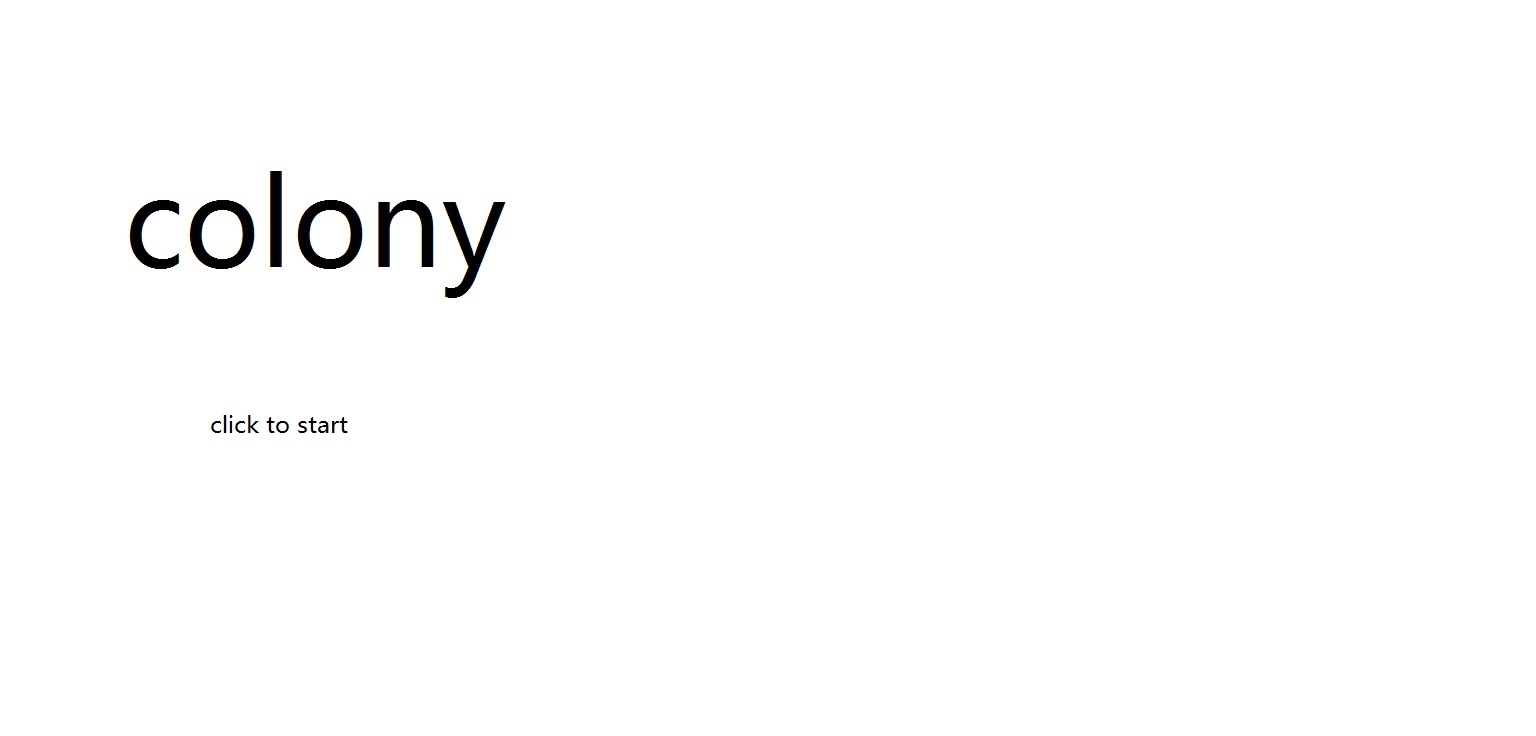
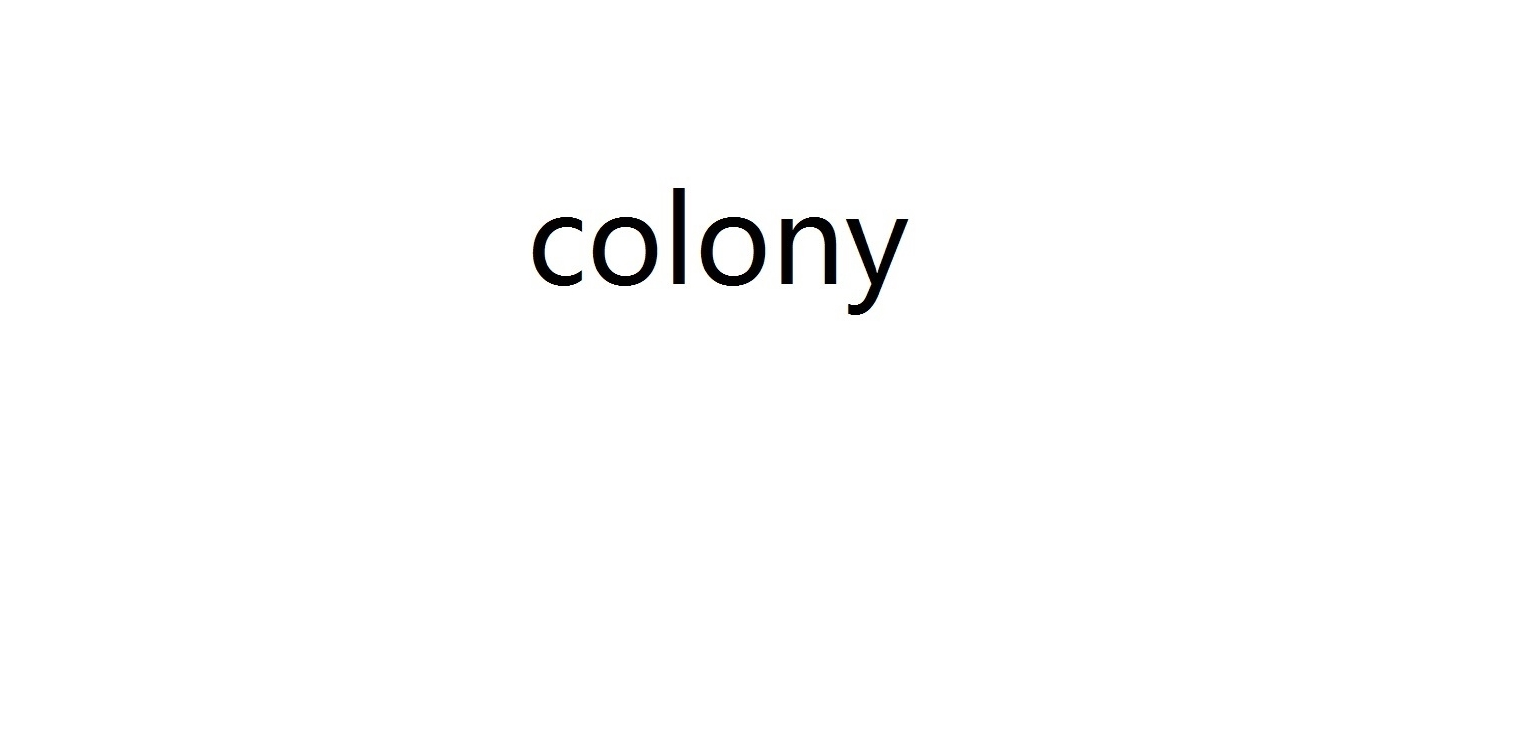
add style

Changed region(s): [[0.0625, 0.2188, 0.5938, 0.4375], [0.125, 0.5625, 0.2188, 0.5938]]

diff --git a/www/scripts/main.js b/www/scripts/main.js
@@ -2,9 +2,8 @@
     ctx = canvas.getContext('2d'),
     background = new Image();
 background.src = './images/background.main.jpg';
-var beginTime;
-var lastTime = Date.now(); //calculate Fps
-var timeLsat = 0;
+var lastTime; //calculate Fps
+var timer = 0;
 var pause = false;
 var innerMapData={ maps: [[[20, 20, 2, 1, 1], [60, 40, 1, 2, 1]], [[20, 20, 1, 1, 1], [20, 40, 2, 1, 1], [60, 40, 3, 2, 1], [60, 20, 3, 3, 1], [30, 10, 1, 0, 1]]], date: "2017.1.24", author: "w12101111" };
 var colony = {
@@ -25,7 +24,7 @@ var colony = {
     shipRatio: 1,
     lastSelect: undefined,
     loadMap: function (n) {
-        beginTime = Date.now();
+        lastTime = Date.now();
         colony.map = colony.data.maps[n - 1];
         colony.map.forEach(function (star) {
             star[5] = new Array(colony.config.maxCamp);
@@ -53,8 +52,8 @@ var colony = {
         colony.ship.push(ship);
     },
     shipOrbit: function (aship, index) {
-        var distanceX = (colony.map[aship[5]][0] - colony.map[aship[4]][0]), //to-from
-            distanceY = (colony.map[aship[5]][1] - colony.map[aship[4]][1]);
+        var distanceX = colony.map[aship[5]][0] - colony.map[aship[4]][0], //to-from
+            distanceY = colony.map[aship[5]][1] - colony.map[aship[4]][1];
         var distance = colonyUI.distance(colony.map[aship[5]][0], colony.map[aship[5]][1], colony.map[aship[4]][0], colony.map[aship[4]][1]);
         aship[0] += distanceX / distance * colony.config.shipSpeed * colonyUI.fps;
         aship[1] += distanceY / distance * colony.config.shipSpeed * colonyUI.fps;
@@ -98,25 +97,23 @@ var colony = {
     },
     ai: function () {
         window.setInterval(function () {
-            if(!pause)
-            {
+            if (!pause) {
                 for (let aiCamp = 1; aiCamp < colony.config.maxCamp; aiCamp++) {
-                    if (aiCamp == colony.camp) continue;
-                    var from=[],to=undefined,cent;
-                    var len=colony.map.length,dis=10000;
-                    var population=0,enemy_pop=new Array(5);
-                    var no_people_star=[],cnt=0,tmp=0;
+                    if (aiCamp === colony.camp) continue;
+                    var from = [], to = undefined, cent;
+                    var len = colony.map.length, dis = 10000;
+                    var population = 0, enemy_pop = new Array(5);
+                    var no_people_star = [], cnt = 0, tmp = 0;
                     for (let i = 0; i < len; i++) {
-                        let star=colony.map[i];
-                        if(!star[7]) no_people_star[cnt++]=i;
-            /*找出发点*/if(star[7]===aiCamp && star[5][aiCamp]>population) {
-                         population = star[5][aiCamp];
-                         from[tmp++] = i;
+                        let star = colony.map[i];
+                        if (!star[7]) no_people_star[cnt++] = i;
+            /*找出发点*/if (star[7] === aiCamp && star[5][aiCamp] > population) {
+                            population = star[5][aiCamp];
+                            from[tmp++] = i;
                         }
-                        else if(star[7]===aiCamp && star[5][aiCamp] == population) from[tmp++]=i;                     
+                        else if (star[7] === aiCamp && star[5][aiCamp] === population) from[tmp++] = i;
                     }
-                    if(typeof(no_people_star[0])!="undefined"){}
-                }
+                    if (typeof no_people_star[0] !== "undefined") { }
                     /*for(let i=0;i<len;i++){
                         let star = colony.map[i];
                         if (!star[5][aiCamp] || star[5][aiCamp] < 5) continue;
@@ -158,10 +155,10 @@ var colony = {
                             if (Math.random() > 0.5)
                                 break;
                         }
-                    }
-                if((typeof (from) !='undefined')&&(typeof (to) !='undefined')&&cent>0&&cent<=1)
+                    }*/
+                    if (typeof from !== 'undefined' && typeof to !== 'undefined' && cent > 0 && cent <= 1)
                         colony.shipMove(from, to, aiCamp, cent);
-                }*/
+                }
             }
         }, colony.config.aiThinkSpeed);
     },
@@ -202,7 +199,7 @@ var colony = {
             }
             background.onload = function () {
                 callback.call(background);
-            }
+            };
         }
         try {
             imageLoad(function(){
@@ -213,36 +210,47 @@ var colony = {
         }
     },
     init: function () {
-        colonyUI.canvasResize();
-        colonyUI.drawBackground();
-        ctx.textAlign = "center";
-        ctx.textBaseline = "middle";
         colony.map = [];
         colony.ship = [];
+        function title() {
+            colonyUI.canvasResize();
+            colonyUI.drawBackground();
+            ctx.textAlign = "center";
+            ctx.textBaseline = "middle";
+            ctx.font = "18pt Arial";
+            ctx.fillStyle = "black";
+            ctx.fillText("click to start", canvas.width / 2, canvas.height * 0.8);
+        }
+        title();
+        window.addEventListener("resize",title);
         document.getElementById("main_canvas").onclick = function (e) {
             $("#main").hide();
             colony.data=innerMapData;
             colonyUI.main(0);
             this.onclick = undefined;
+            window.removeEventListener("resize", title);
         };
         document.getElementById("openFile").addEventListener("click", function (e) {
-            e.preventDefault()
-            this.onchange = function () {
-                var selectedFile = document.getElementById("files").files[0];
+            e.preventDefault();
+            document.getElementById("file").onchange = function () {
+                var selectedFile = this.files[0];
                 var reader = new FileReader();
                 reader.readAsText(selectedFile);
                 reader.onload = function () {
                     colony.data = JSON.parse(this.result);
                     $("#main").hide();
                     colonyUI.main(0);
+                    window.removeEventListener("resize", title);
                 };
             };
             document.getElementById("file").click();
         });
     },
     main: function (status) {
+        colonyUI.canvasResize();
+        colonyUI.drawBackground();
         var len = colony.data.maps.length;
-        var text = "<div id=\"choose\"><h2 id=\"choose_tip\">Choose a map.</h2><p>";
+        var text = "<div id=\"choose\">";
         var mapN = 0;
         for (var i = 1; i <= len; i++) {
             text += "<button type=\"button\" class=\"choose_map\" id=\"map" + i + "\">" + i + "</button>";
@@ -252,12 +260,11 @@ var colony = {
         $("button.choose_map").click(function () {
             mapN = parseInt($(this).attr("id").substring(3)); //mapX
             $("button.choose_map").hide();
-            $("#choose_tip").hide();
             $("#pos").show();
             colony.loadMap(mapN);
         });
     },
-    controlUI: function (data) {
+    controlUI: function () {
         canvas.addEventListener("touchstart", function (e) {
             colonyUI.select(e);
             e.preventDefault();
@@ -284,7 +291,7 @@ var colony = {
             colony.shipMove(from, to, camp, colony.shipRatio);
         };
         document.getElementById("shipRatio").onchange = function (e) {
-            document.getElementById("shipRatioText").innerText = "shipRatio:" + this.value + "%";
+            document.getElementById("shipRatioText").innerText = this.value + "%";
             colony.shipRatio = parseInt(this.value) / 100;
         };
         background.src = "./images/background.jpg";
@@ -301,7 +308,7 @@ var colony = {
             colony.shipOrbit(aship, index);
             colonyUI.drawShipOnWay(aship);
         });
-        if (typeof (colony.lastSelect) !== 'undefined') {
+        if (typeof colony.lastSelect !== 'undefined') {
             colonyUI.drawStarSelectTip();
         }
         colony.winChick();
@@ -340,7 +347,7 @@ var colony = {
             totalCamp++;
         }
         if (totalCamp > 1) atWar = true;
-        if (totalCamp === 1 && (!star[5][star[3]])) capturing = true;
+        if (totalCamp === 1 && !star[5][star[3]]) capturing = true;
         for (let i = 0, len = star[5].length, populationCount = 0; i < len; i++) {
             text = star[5][i];
             if (!text) continue;
@@ -350,7 +357,7 @@ var colony = {
             if (atWar) {
                 ctx.lineWidth = 10;
                 ctx.beginPath();
-                ctx.arc(x, y, 10 * star[2] + 35, (populationCount / totalPopulation) * 2 * Math.PI, ((populationCount + text) / totalPopulation) * 2 * Math.PI, false);
+                ctx.arc(x, y, 10 * star[2] + 35, populationCount / totalPopulation * 2 * Math.PI, (populationCount + text) / totalPopulation * 2 * Math.PI, false);
                 ctx.stroke();
                 ctx.lineWidth = 2;
                 ctx.fillText(text.toFixed(), x + (10 * star[2] + 20) * Math.cos((populationCount + text / 2) / totalPopulation * Math.PI * 2), y + (10 * star[2] + 20) * Math.sin((populationCount + star[5][i] / 2) / totalPopulation * Math.PI * 2));
@@ -368,7 +375,7 @@ var colony = {
             } else {
                 star[7] = undefined;
             }
-            if ((!atWar) && (!capturing)) {
+            if (!atWar && !capturing) {
                 colony.grow(star);
             }
             populationCount += text;
@@ -408,16 +415,16 @@ var colony = {
         var zy = parseInt(loc.y);
         var x = zx / colonyUI.config.zoom_x; //test only
         var y = zy / colonyUI.config.zoom_y; //test only
-        document.getElementById("input_canvas").value = zx + "," + zy; //test only
-        document.getElementById("input_map").value = parseInt(x) + "," + parseInt(y); //test only
+        document.getElementById("input_canvas").value ="X，Y："+ zx + "," + zy; //test only
+        document.getElementById("input_map").value = "map X,Y: "+parseInt(x) + "," + parseInt(y); //test only
         if (pause) return;
         var match = false;
         for (var i = 0, len = colony.map.length; i < len; i++) {
             var star = colony.map[i];
             var starDistance = colonyUI.distance(zx, zy, colonyUI.config.zoom_x * star[0], colonyUI.config.zoom_y * star[1]);
-            if (starDistance < (10 * star[2] + 30)) {
+            if (starDistance < 10 * star[2] + 30) {
                 //document.getElementById("input_select").value = i; //test only
-                if (typeof (colony.lastSelect) === 'undefined') {
+                if (typeof colony.lastSelect === 'undefined') {
                     colony.lastSelect = i;
                 } else {
                     colony.shipMove(colony.lastSelect, i, colony.camp, colony.shipRatio);
@@ -436,16 +443,19 @@ var colony = {
         return Math.sqrt((x2 - x1) * (x2 - x1) + (y2 - y1) * (y2 - y1));
     },
     calculateFpsAndTime: function () {
-        var now = Date.now(),
-            fps = 1000 / (now - lastTime);
+        var now = Date.now();
+        if (pause) {
+            lastTime = now;
+            return 0;
+        }
+        timer += now - lastTime;
+        var fps = 1000 / (now - lastTime);
         lastTime = now;
-        timeLsat = lastTime - beginTime;
-        document.getElementById("input_time").value = Math.floor(timeLsat / 60000) + ":" + Math.floor(timeLsat / 1000) % 60;
+        document.getElementById("input_time").value = Math.floor(timer / 60000) + ":" + Math.floor(timer / 1000) % 60;
         return fps;
     },
     canvasResize: function () {
         var w = window.innerWidth,
-
             h = window.innerHeight;
         var s = w / 2 > h;
         ctx.canvas.width = s ? h * 2 : w;
@@ -465,4 +475,10 @@ function animation() {
     if (!pause)
         colonyUI.updateFrame();
     window.requestAnimationFrame(animation);
+}
+function debugOn() {
+    $("#input_canvas").show();
+    $("#input_map").show();
+    $("#ship_control").show();
+    $("#ship_from_to").show();
 }

diff --git a/www/index.html b/www/index.html
@@ -1,40 +1,36 @@
 <!DOCTYPE html>
 <html>
     <head>
-    <!--
-        必要时在以下 META 标记中自定义内容安全策略。将 "unsafe-inline" 添加到 default-src 以启动内联 JavaScript。
-      有关详细信息，请参阅 http://go.microsoft.com/fwlink/?LinkID=617521
-    -->
-        <meta http-equiv="Content-Security-Policy" content="default-src 'self' data: gap: https://ssl.gstatic.com 'unsafe-eval'; style-src 'self' 'unsafe-inline'; media-src *">
-        <meta charset="utf-8">
-        <meta http-equiv="content-type" content="text/html; charset=UTF-8" />
+        <meta http-equiv="Content-Security-Policy" content="default-src 'self' data: 'unsafe-eval'; style-src 'self' 'unsafe-inline'; media-src *">
+        <meta http-equiv="content-type" content="text/html"; charset="UTF-8" />
         <meta name="format-detection" content="telephone=no">
         <meta name="msapplication-tap-highlight" content="no">
         <meta name="viewport" content="user-scalable=no, initial-scale=1, maximum-scale=1, minimum-scale=1, width=device-width">
         <link rel="stylesheet" type="text/css" href="css/index.css">
         <script type="text/javascript" src="scripts/jquery.min.js" ></script>
-        <title>colony alpha 0.3.1</title>
+        <title>colony alpha 0.4.0</title>
     </head>
     <body>
         <div id="control">
             <div id="main">
-                <h1>colony</h1>
                 <button type="button" id="openFile">Open Map</button>
                 <input type="file" id="file" style="display: none" />
             </div>
             <div id="pos">
                 <button type="button" id="pause">Pause</button>
-                X，Y：<input type="text" id="input_canvas" value="" />
-                map X,Y: <input type="text" id="input_map" value="" />
+                <input type="text" id="input_canvas" value="" style="display: none"/>
+                <input type="text" id="input_map" value="" style="display: none"/>
                 time:<input type="text" id="input_time" value="" />
                 fps:<input type="text" id="input_fps" value="" />
-                <button type="button" id="ship_control">shipMove</button>
-                <input type="text" id="ship_from_to" value="" />
+                <button type="button" id="ship_control" style="display: none">shipMove</button>
+                <input type="text" id="ship_from_to" value="" style="display: none"/>
                 <input type="range" id="shipRatio" min="0" max="100" value="100" />
-                <span id="shipRatioText">shipRatio:100%</span>
+                <span id="shipRatioText">100%</span>
             </div>
         </div>
-        <canvas id='main_canvas' width='800' height='600'></canvas>
+        <div id="container">
+            <canvas id='main_canvas' width='800' height='600'></canvas>
+        </div>
         <script type="text/javascript" src="cordova.js"></script>
         <script type="text/javascript" src="scripts/main.js"></script>
         <script type="text/javascript" src="scripts/platformOverrides.js"></script>

diff --git a/www/index_run.html b/www/index_run.html
@@ -1,34 +1,37 @@
 <!DOCTYPE html>
 <html>
     <head>
-        <meta charset="utf-8">
-        <meta http-equiv="content-type" content="text/html; charset=UTF-8" />
+        <!--meta http-equiv="Content-Security-Policy" content="default-src 'self' data: gap: https://ssl.gstatic.com 'unsafe-eval'; style-src 'self' 'unsafe-inline'; media-src *"-->
+        <meta http-equiv="content-type" content="text/html"; charset="UTF-8" />
+        <meta name="format-detection" content="telephone=no">
+        <meta name="msapplication-tap-highlight" content="no">
         <meta name="viewport" content="user-scalable=no, initial-scale=1, maximum-scale=1, minimum-scale=1, width=device-width">
         <link rel="stylesheet" type="text/css" href="css/index.css">
         <script type="text/javascript" src="scripts/jquery.min.js" ></script>
         <!--run directly in Browser-->
-        <title>colony alpha 0.3.1</title>
+        <title>colony alpha 0.4.0</title>
     </head>
     <body>
         <div id="control">
             <div id="main">
-                <h1>colony</h1>
                 <button type="button" id="openFile">Open Map</button>
                 <input type="file" id="file" style="display: none" />
             </div>
             <div id="pos">
                 <button type="button" id="pause">Pause</button>
-                X，Y：<input type="text" id="input_canvas" value="" />
-                map X,Y: <input type="text" id="input_map" value="" />
+                <input type="text" id="input_canvas" value="" style="display: none"/>
+                <input type="text" id="input_map" value="" style="display: none"/>
                 time:<input type="text" id="input_time" value="" />
                 fps:<input type="text" id="input_fps" value="" />
-                <button type="button" id="ship_control">shipMove</button>
-                <input type="text" id="ship_from_to" value="" />
+                <button type="button" id="ship_control" style="display: none">shipMove</button>
+                <input type="text" id="ship_from_to" value="" style="display: none"/>
                 <input type="range" id="shipRatio" min="0" max="100" value="100" />
-                <span id="shipRatioText">shipRatio:100%</span>
+                <span id="shipRatioText">100%</span>
             </div>
         </div>
+        <div id="container">
         <canvas id='main_canvas' width='800' height='600'></canvas>
+        </div>
         <!--script type="text/javascript" src="cordova.js"></script-->
         <script type="text/javascript" src="scripts/main.js"></script>
         <!--script type="text/javascript" src="scripts/platformOverrides.js"></script-->

diff --git a/www/scripts/index.js b/www/scripts/index.js
@@ -28,6 +28,6 @@
 
     function onResume() {
         // TODO: 此应用程序已重新激活。在此处还原应用程序状态。
-        pause = false;
+        //pause = false;
     }
 } )();
